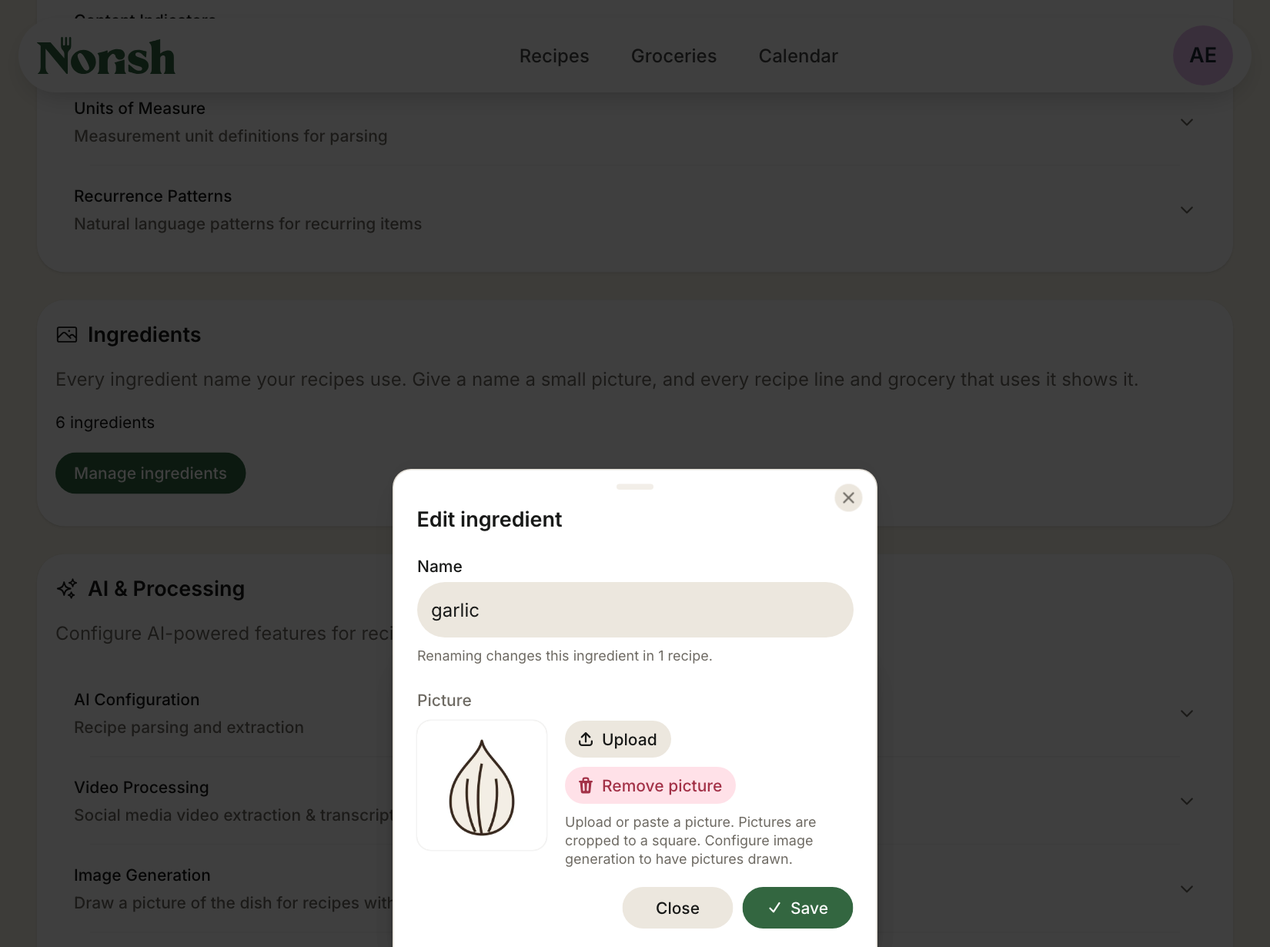
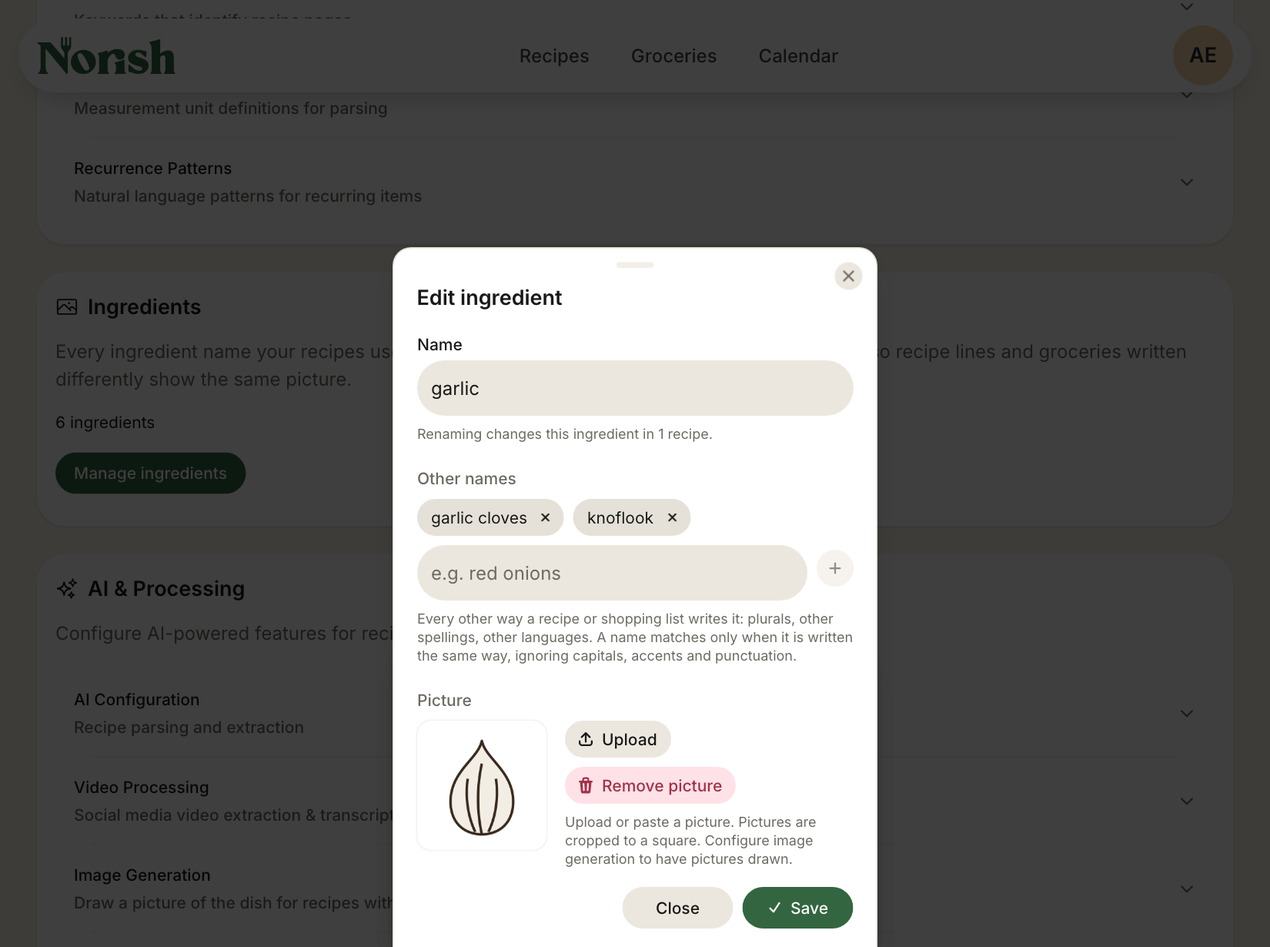
docs(recipes): ADR-0034, Alternative Names in the guide and the release note
ADR-0034 records why one food under two names is closed at write time rather
than read time, and what that costs: read-time matching, silent merging, fuzzy
matching, rewriting existing rows and per-locale alternatives are each rejected
with their reason. AI proposing alternatives is deferred, with ADR-0012's
governance shape written down in case it is ever taken up.

CONTEXT gains Alternative Name and Merge. The user guide covers how a name is
resolved, why a line may read a different name from the one imported, and what
merging moves. The browser E2E adds the path an administrator actually walks:
claiming a name that is already an ingredient, being refused, merging it in, and
seeing a later import land on the surviving row without drawing a second
picture.

Claude-Session: https://claude.ai/code/session_015Tcu7dLYJYkoWJsZQzqfmy

diff --git a/apps/web/__tests__/e2e/ai/ingredient-pictures.e2e.ts b/apps/web/__tests__/e2e/ai/ingredient-pictures.e2e.ts
@@ -3,11 +3,12 @@
  * provider's image route (ADR-0033).
  *
  * What a reader and an administrator actually do: a recipe is imported; an
- * administrator finds one of its ingredients and has its picture drawn; the
- * picture then shows beside that recipe's line, beside a grocery typed by
- * hand, and in the editor's suggestions — while a line whose name matches
- * nothing stays plain text, and an ingredient a recipe uses cannot be deleted.
- * Only the AI provider's HTTP boundary is faked.
+ * administrator finds one of its ingredients, has its picture drawn and gives
+ * it another name; the picture then shows beside the lines written either
+ * way, beside a grocery typed by hand, and in the editor's suggestions — while
+ * a line whose name matches nothing stays plain text, and an ingredient a
+ * recipe uses cannot be deleted. Only the AI provider's HTTP boundary is
+ * faked.
  */
 import { readFileSync } from "node:fs";
 import path from "node:path";
@@ -28,7 +29,7 @@ const DRAWN_PICTURE_BASE64 = readFileSync(path.join(FIXTURES_DIR, "generated-dis
 );
 
 const RECIPE = "Chive Omelette";
-const SECOND_RECIPE = "Egg Omelette";
+const SECOND_RECIPE = "Hen Egg Omelette";
 
 function omeletteRecipe() {
   return {
@@ -101,7 +102,7 @@ function adminRow(name: string) {
   return page.locator(`[data-testid="ingredients-row"][data-ingredient-name="${name}"]`);
 }
 
-test("an administrator's picture reaches the lines that point at the name", async () => {
+test("an administrator's picture reaches every line whose name matches it", async () => {
   await resetIngredientPicturesScenario();
   await configureImageGeneration(stack.ai.url);
   await importOmelette();
@@ -133,6 +134,18 @@ test("an administrator's picture reaches the lines that point at the name", asyn
   // The panel watches for the drawing and shows it without a reload.
   await expect(page.getByTestId("ingredients-picture-busy")).toHaveCount(0, { timeout: 30_000 });
 
+  // "hen egg" is another name for it — but the recipe already minted it as an
+  // ingredient of its own, so claiming the name is refused rather than
+  // stranding it. Merging is offered, and asked for.
+  await page.getByTestId("ingredients-alt-name-input").fill("hen egg");
+  await page.getByTestId("ingredients-add-alt-name").click();
+  await expect(page.getByTestId("ingredients-name-is-ingredient")).toBeVisible();
+  await page.getByTestId("merge-ingredient").click();
+
+  await expect.poll(async () => (await readIngredient("eggs"))?.altNames).toEqual(["hen egg"]);
+  expect(await readIngredient("hen egg")).toBeNull();
+
+  // The merge saved itself; the draft is done with.
   await page.getByTestId("ingredients-cancel").click();
   await expect(adminRow("eggs").getByTestId("ingredient-illustration")).toBeVisible();
   await expect(adminRow("eggs")).toContainText("Used in 1 recipe");
@@ -150,19 +163,19 @@ test("an administrator's picture reaches the lines that point at the name", asyn
   await page.getByRole("button", { name: "Close", exact: true }).click();
   expect(await readIngredient("eggs")).not.toBeNull();
 
-  // The recipe page: the line carries the picture because it points at that
-  // ingredient. "hen egg" is an ingredient of its own, and has none.
+  // The recipe page: the merged line now reads "eggs" and carries its picture,
+  // because it points at that ingredient. Chives has none of its own.
   await openOmelette();
+  await expect(ingredientRow("hen egg")).toHaveCount(0);
   await expect(
     ingredientRow("eggs").first().getByTestId("ingredient-illustration")
   ).toHaveAttribute("src", stored!.imageUrl!);
-  await expect(ingredientRow("hen egg").getByTestId("ingredient-illustration")).toHaveCount(0);
   await expect(ingredientRow("chives").getByTestId("ingredient-illustration")).toHaveCount(0);
 });
 
-test("a second recipe using the name lands on the same ingredient", async () => {
-  // One row, one picture: the second recipe shows the drawing already made,
-  // and nothing is drawn or billed again.
+test("a name an ingredient already answers to mints nothing new", async () => {
+  // "hen egg" is an Alternative Name of eggs now, so a recipe written with it
+  // lands on that ingredient — one row, one picture, nothing drawn twice.
   const before = await readIngredient("eggs");
 
   stack.ai.control.reset();
@@ -171,7 +184,7 @@ test("a second recipe using the name lands on the same ingredient", async () => 
     content: JSON.stringify({
       ...omeletteRecipe(),
       name: SECOND_RECIPE,
-      recipeIngredient: { metric: ["2 eggs"], us: ["2 eggs"] },
+      recipeIngredient: { metric: ["2 hen egg"], us: ["2 hen egg"] },
     }),
   });
   stack.ai.control.setDefault(null);
@@ -182,8 +195,8 @@ test("a second recipe using the name lands on the same ingredient", async () => 
   await expect
     .poll(async () => (await readIngredient("eggs"))?.recipeCount, { timeout: 60_000 })
     .toBe(2);
+  expect(await readIngredient("hen egg")).toBeNull();
   expect((await readIngredient("eggs"))?.imageUrl).toBe(before!.imageUrl);
-  expect(stack.ai.control.imageRequestCount).toBe(0);
 });
 
 test("a grocery typed by hand gets the picture its name matches", async () => {

diff --git a/.scratch/ingredient-pictures/docs-screenshots.e2e.ts b/.scratch/ingredient-pictures/docs-screenshots.e2e.ts
@@ -119,13 +119,13 @@ async function snap(name: string, fullPage = false): Promise<void> {
   if (DOCS) await page.screenshot({ path: path.join(DOCS, name), fullPage });
 }
 
-/** The recipe's own ingredient names, each given a picture. */
-const ENTRIES: Array<{ name: string; picture: string }> = [
-  { name: "eggs", picture: "Egg" },
-  { name: "tomatoes", picture: "Tomato" },
-  { name: "onion", picture: "Onion" },
-  { name: "garlic", picture: "Garlic" },
-  { name: "red pepper", picture: "Red pepper" },
+/** The recipe's own ingredient names, each given a picture and, for some, another name. */
+const ENTRIES: Array<{ name: string; picture: string; altNames: string[] }> = [
+  { name: "eggs", picture: "Egg", altNames: ["egg"] },
+  { name: "tomatoes", picture: "Tomato", altNames: ["tomato"] },
+  { name: "onion", picture: "Onion", altNames: ["onions"] },
+  { name: "garlic", picture: "Garlic", altNames: ["garlic cloves", "knoflook"] },
+  { name: "red pepper", picture: "Red pepper", altNames: ["red peppers"] },
 ];
 
 test("captures the ingredients panel and the editor", async () => {
@@ -147,6 +147,11 @@ test("captures the ingredients panel and the editor", async () => {
     await expect(
       page.getByRole("dialog").last().getByTestId("ingredient-illustration")
     ).toBeVisible();
+    for (const alt of entry.altNames) {
+      await page.getByTestId("ingredients-alt-name-input").fill(alt);
+      await page.getByTestId("ingredients-add-alt-name").click();
+    }
+
     if (entry.name === "garlic") await snap("ingredients-admin-editor.png");
 
     await page.getByTestId("ingredients-save").click();

diff --git a/docs/adr/index.html b/docs/adr/index.html
@@ -856,6 +856,24 @@
             its own.
           </p>
         </li>
+        <li>
+          <a href="recipes/0034-an-alternative-name-resolves-to-the-ingredient-that-carries-it.md"
+            >ADR-0034 &mdash; An Alternative Name resolves to the Ingredient Name that carries
+            it</a
+          >
+          <p>
+            <b>Accepted.</b> One food under two names is closed where a name becomes an ingredient,
+            not where one is read: an Ingredient Name carries Alternative Names, and a name written
+            from now on resolves to the row that answers to it &mdash; its own name, its folded form
+            under the grocery folding, or one of that row's alternatives. A line then shows that
+            ingredient's name, so a recipe imported as "aubergine" reads "Eggplant". Alternatives
+            apply to names written afterwards; an existing duplicate is settled by an explicit
+            merge, which the administrator is offered rather than having it happen silently.
+            Rejects read-time matching, silent merging, fuzzy matching, rewriting existing rows and
+            per-locale alternatives; defers AI proposing alternatives, with ADR-0012's governance
+            shape if it is ever taken up.
+          </p>
+        </li>
       </ul>
 
       <h2>Validation policy</h2>

diff --git a/apps/web/__tests__/e2e/ai/ingredient-pictures-support.ts b/apps/web/__tests__/e2e/ai/ingredient-pictures-support.ts
@@ -27,20 +27,23 @@ export async function resetIngredientPicturesScenario(): Promise<void> {
   });
 }
 
-/** The stored Ingredient Name: its picture and what uses it. */
+/** The stored Ingredient Name: its picture, its Alternative Names and what uses it. */
 export async function readIngredient(
   name: string
-): Promise<{ imageUrl: string | null; recipeCount: number } | null> {
+): Promise<{ imageUrl: string | null; altNames: string[]; recipeCount: number } | null> {
   return await withDatabase(async (database) => {
     const result = await database.query(
-      `select i.image_url,
+      `select i.image_url, i.alt_names,
               (select count(distinct ri.recipe_id)::int from recipe_ingredients ri
                 where ri.ingredient_id = i.id) as recipe_count
          from ingredients i where i.name = $1`,
       [name]
     );
-    const row = result.rows[0] as { image_url: string | null; recipe_count: number } | undefined;
+    const row = result.rows[0] as
+      { image_url: string | null; alt_names: string[]; recipe_count: number } | undefined;
 
-    return row ? { imageUrl: row.image_url, recipeCount: row.recipe_count } : null;
+    return row
+      ? { imageUrl: row.image_url, altNames: row.alt_names, recipeCount: row.recipe_count }
+      : null;
   });
 }

diff --git a/apps/docs/docs/recipes/ingredient-pictures.md b/apps/docs/docs/recipes/ingredient-pictures.md
@@ -26,26 +26,38 @@ Pictures appear:
 ## How a line gets its picture
 
 Every ingredient your recipes use is kept on the server once, and your
-administrator can give it a picture.
+administrator can give it a picture and any number of **other names**.
 
 A line shows the picture of the ingredient it points at — that and nothing else.
-Which ingredient that is was decided when the recipe was saved or imported: the
-name you wrote is matched to an existing ingredient, ignoring capitals, and a
-name nothing matches becomes an ingredient of its own. The amount and unit are
-never part of the name, so `3 eggs` and `200 g eggs` are both eggs.
+The interesting part is how a name becomes an ingredient, which happens as the
+recipe is saved or imported: the name you wrote is looked up by itself, then by
+its other names. Matching ignores capitals, accents, punctuation and extra
+spaces, and nothing else: `Eggs!` is `eggs`, but `free-range eggs` is its own
+ingredient until someone adds it as another name. The amount and unit are never
+part of the name, so `3 eggs` and `200 g eggs` are both eggs.
+
+This is what keeps one food from becoming two. If `aubergine` is listed as
+another name for `Eggplant`, a recipe you import saying aubergine points at
+Eggplant, shows the Eggplant picture, and counts towards Eggplant — instead of
+starting a second ingredient that needs its own picture drawn.
 
 Because the line points at the ingredient, it also shows **that ingredient's
-name**. A recipe saying "olive oil" reads "Olive Oil" if that is how your server
-first recorded it.
+name**. A recipe imported as "aubergine" reads "Eggplant". This is the same
+thing that already happens with capitals, where a recipe saying "olive oil"
+reads "Olive Oil" if that is how your server first recorded it.
 
 Grocery items are different: you type them as free text, so they have no
-ingredient of their own. A grocery row finds its picture by its name, ignoring
-capitals, accents, punctuation and extra spaces — `Eggs!` finds `eggs`, while
-`free-range eggs` is a different thing and gets no picture.
+ingredient of their own. A grocery row finds its picture by its name, under the
+same matching — capitals, accents, punctuation and extra spaces ignored, and
+other names counted too.
 
 A few things follow:
 
-- Removing a picture takes it away everywhere at once.
+- Other names apply to recipes saved or imported **from then on**. Recipes that
+  already point at the older ingredient stay where they are; an administrator
+  can merge the two, which moves them across.
+- Removing a picture takes it away everywhere at once. Removing another name
+  stops future recipes resolving through it, and changes nothing already saved.
 - Imported recipes, including [Recipe Archives](./recipe-archive.md), resolve
   their names against the ingredients your server already has.
 
@@ -59,7 +71,9 @@ the name part of the line, after the amount and unit.
 ![The editor suggesting an ingredient while typing a line](/img/screenshots/ingredient-pictures-editor.png)
 
 - Click a suggestion, or use the arrow keys and press **Enter** or **Tab**, to
-  replace just the name. The amount and unit you typed stay as they are.
+  replace just the name. The amount and unit you typed stay as they are. If you
+  matched an ingredient by one of its other names, the suggestion says so and
+  inserts the ingredient's own name, which is what the line would mean anyway.
 - Press **Enter** without choosing a suggestion to move to the next line, as
   always.
 - Suggestions are optional. Any other name is saved exactly as you typed it, and
@@ -75,20 +89,29 @@ Item, this changes only your own view on that device.
 
 Administrators manage ingredients under Settings => Admin => **Ingredients**.
 Choose **Manage ingredients** to see every ingredient name your recipes use,
-with how many recipes use each. Search by name to find one.
+with how many recipes use each. Search by name or other name to find one.
 
 ![The Ingredients panel](/img/screenshots/ingredients-admin-panel.png)
 
 Edit an ingredient to change:
 
 - **Name**, which is the text recipes show. Renaming changes it in every recipe
-  that uses it, and the editor tells you how many that is first. A name can only
-  belong to one ingredient, so a rename onto a name another ingredient already
-  has is refused, naming that ingredient.
+  that uses it, and the editor tells you how many that is first.
+- **Other names**, every other way a recipe or shopping list writes it: plurals
+  (`egg`), other spellings (`yoghurt`, `yogurt`), other languages (`aubergine`),
+  or a common longer form (`large eggs`). Recipes saved from then on resolve
+  through them, so the food stays one ingredient with one picture.
+
+  A name can only belong to one ingredient. If the name you add is already an
+  ingredient in its own right, Norish says so, tells you how many recipes use
+  it, and offers to **merge** it in — which moves those recipes and any pantry
+  entries across, keeps its names as other names, and removes its row and
+  picture. Merging is never automatic: it is destructive, so it is always your
+  choice.
 - **Picture**, uploaded, pasted from the clipboard, or drawn by the image model.
   Pictures are cropped to a square.
 
-![Editing an ingredient: its name and picture](/img/screenshots/ingredients-admin-editor.png)
+![Editing an ingredient: its name, other names and picture](/img/screenshots/ingredients-admin-editor.png)
 
 **Add ingredient** creates a name no recipe uses yet, so it can have a picture
 ready ahead of time. An ingredient can only be deleted when no recipe uses it and
@@ -102,9 +125,9 @@ A drawing takes a moment and appears in the panel when it is ready. Generating
 again replaces the picture.
 
 **Generate missing pictures** draws every ingredient without a picture that a
-recipe uses. It tells you how many pictures that is before it starts, because
-each one is a separate request to your image provider. Ingredients already being
-drawn are not drawn twice.
+recipe uses or that has other names. It tells you how many pictures that is
+before it starts, because each one is a separate request to your image provider.
+Ingredients already being drawn are not drawn twice.
 
 Every picture is drawn from the **Ingredient Illustration Prompt**, which sets
 the style they share. You can edit it under Settings => Admin => AI &

diff --git a/docs/adr/recipes/0034-an-alternative-name-resolves-to-the-ingredient-that-carries-it.md b/docs/adr/recipes/0034-an-alternative-name-resolves-to-the-ingredient-that-carries-it.md
@@ -1,0 +1,28 @@
+# An Alternative Name resolves to the Ingredient Name that carries it
+
+One deployment accumulates the same food under several names — "aubergine" and "eggplant", "coriander" and "cilantro" — each minted as its own `ingredients` row by whichever recipe was imported first. Each then counts separately in the administrator's list, is drawn separately, and is billed separately (ADR-0033). The names differ; the food does not.
+
+This is a matching problem, and it is settled where a name becomes an ingredient rather than where one is read. **An Ingredient Name carries Alternative Names, and a name written from now on resolves to the row that answers to it — by its own name, by its folded form under `normalizeGroceryName`, or by one of that row's Alternative Names.** A recipe that says "aubergine" points at the Eggplant row because it *is* Eggplant.
+
+Resolution ranks: a row's own name beats a fold, and a fold beats another row's Alternative Name. Where two rows still answer alike the lower `lower(name)` wins, so the same name never lands on a different ingredient from one import to the next.
+
+## Considered Options
+
+- **Matching at read time**, so a line shows the picture of a name carrying its folded form as an Alternative Name. Rejected in ADR-0033, and rejected again here for a stronger reason: it leaves both rows in place, so the duplicate the feature exists to close stays open, with two recipe counts and two chances to be drawn. The alternative papers over the split instead of closing it.
+- **Merging silently** when an administrator adds an Alternative Name that is already an ingredient. It destroys a row, its picture and its identity as a side effect of typing in a text field. Rejected in favour of refusing and offering the merge as its own action.
+- **Fuzzy or word-subset matching**, so "extra virgin olive oil" finds "olive oil". It merges ingredients that are not the same whenever the longer name is a different thing ("coconut milk" is not milk), and here a wrong match no longer shows a wrong picture — it puts a recipe's line on the wrong ingredient and changes what that line says. Rejected the more firmly for it, as ADR-0032 rejects it for the Pantry; the remedy for a missed match is an Alternative Name.
+- **Rewriting the rows that already exist** when an Alternative Name is added. That is a merge, and a merge is destructive; it is the administrator's to ask for.
+- **AI proposing Alternative Names**, per import or per enrichment. Deferred. Every enrichment kind today writes only to the recipe it ran on, while an Alternative Name writes to a vocabulary the whole instance shares and decides what another household's recipe says. Deduplication is also a question about the whole list rather than about one recipe, so it belongs in a batch an administrator asks for, not in a per-import call that is billed every time. ADR-0012 has the governance shape if this is ever taken up: a curated vocabulary that AI may extend only under an explicitly permissive setting.
+- **Per-locale alternatives** beyond what an administrator types. Rejected; the vocabulary is per deployment, and a household cooking in two languages types both names once.
+
+## Consequences
+
+- A recipe line shows the Ingredient Name it resolved to, not the words the import used: a recipe that said "aubergine" reads "Eggplant" once an administrator has made that an Alternative Name. This is the same collapse that already happens for case — a recipe saying "olive oil" reads "Olive Oil" when that row was minted first — widened to names an administrator has declared equal. Keeping the original wording would mean giving `recipe_ingredients` text of its own, which is the duplication the `ingredients` table exists to remove.
+- Alternative Names take effect on names written **afterwards**. Rows that already exist are not moved, because moving them is a merge; the administrator is shown the clash and asks for it.
+- Adding an Alternative Name that is already an Ingredient Name in its own right is refused, naming that ingredient and how many recipes use it, and offering to merge it in. Adding a *name* that is already another ingredient's Alternative Name is refused outright: both directions would otherwise mint the duplicate the feature exists to prevent.
+- Merging repoints the merged ingredient's recipe lines and Pantry Ingredients, keeps its name and its alternatives as Alternative Names of the survivor so nothing that resolved to it stops resolving, deletes its row and sweeps its picture. A member holding both in their Pantry keeps one.
+- Because a name may resolve to a row called something else, every caller of the bulk resolve looks its result up by the fold of the name it asked for, never by the row's name.
+- The editor suggests from the cached list and inserts the **ingredient's own name**, saying which Alternative Name matched. Typing an alternative would resolve there anyway, so the line may as well say what it will mean.
+- The grocery row's lookup indexes alternatives too, so a hand-typed "aubergine" shows the Eggplant picture without a row of its own.
+- A name written before its fold was stored is reached only by its exact name until the startup backfill folds it (ADR-0033).
+- Matching anything looser than the grocery folding reopens this ADR.

diff --git a/CONTEXT.md b/CONTEXT.md
@@ -55,11 +55,19 @@ _Avoid_: Ingredient Link (suggests a hyperlink in the text rather than a usage r
 The Recipe Enrichment kind that infers Step Ingredients. It is a gap-filler in every case — automatic or manual, it only ever adds links to steps that have none, so it can never replace or remove what a person attached and needs no supplied-data suppression: a step that already has Step Ingredients is simply not its business. Heading rows are never linked. A step that genuinely uses nothing stays bare and may be examined again by later runs.
 
 **Ingredient Name**:
-The ingredient a recipe line points at, and the text that line shows. Names are de-duplicated as they are written, regardless of case: "eggs" and "Eggs" are one ingredient, "large eggs" another. An administrator can give it an Ingredient Illustration; a name a recipe uses or a Pantry holds cannot be deleted, and renaming it changes the text of every line that uses it.
+The ingredient a recipe line points at, and the text that line shows. Names are de-duplicated as they are written: regardless of case — "eggs" and "Eggs" are one, "large eggs" another — and through Alternative Names, so a line typed "aubergine" points at Eggplant and reads "Eggplant". An administrator can give it an Ingredient Illustration and Alternative Names; a name recipes use cannot be deleted, and renaming it changes the text of every line that uses it.
 _Avoid_: Ingredient Line (that is the recipe's row with its amount), Catalog Ingredient (the separate catalog this replaced)
 
+**Alternative Name**:
+Another way of writing an Ingredient Name that *is* that ingredient — "aubergine" on "Eggplant". A name written from now on resolves through it, so the recipe points at one row and one picture rather than minting a second of each; matching is exact under the grocery folding and nothing looser, so "free-range eggs" is its own ingredient until an administrator says otherwise (ADR-0034). It never appears on a recipe: a line shows the ingredient's own name. It applies to names written afterwards — an Alternative Name that is already an ingredient is refused, and settled by a Merge instead.
+_Avoid_: Alias, Synonym (both suggest a looser match than exact folding)
+
+**Merge**:
+Folding one Ingredient Name into another: its recipe lines and Pantry Ingredients move across, its name and its alternatives stay as Alternative Names of the survivor, and its row and picture go. It is how an administrator settles a duplicate that already exists, and it is always asked for — never a side effect of adding an Alternative Name, because it destroys a row that recipes point at.
+_Avoid_: Link, Alias (a Merge leaves one ingredient, not two related ones)
+
 **Ingredient Illustration**:
-The small picture belonging to an Ingredient Name, shown beside every line that points at it — and, for a grocery row, beside text that folds to its name — on a recipe's ingredient list, in cooking mode, on a step's ingredient chips, in the editor and on the grocery list — so an ingredient can be recognised at a glance. It is uploaded or drawn by AI from the name, square and in the one style its Prompt sets; unlike a Generated Image, nothing records which, because nothing acts on the difference. It is decoration beside the name, never a replacement for it.
+The small picture belonging to an Ingredient Name, shown beside every line that points at it — on a recipe's ingredient list, in cooking mode, on a step's ingredient chips, in the editor and on the grocery list — so an ingredient can be recognised at a glance. It is uploaded or drawn by AI from the name, square and in the one style its Prompt sets; unlike a Generated Image, nothing records which, because nothing acts on the difference. It is decoration beside the name, never a replacement for it.
 _Avoid_: Ingredient Icon (suggests a symbol set), Ingredient Image (a recipe's images are of the dish)
 
 **Image Generation**:

diff --git a/apps/docs/docs/release-notes/0.23.0-beta.md b/apps/docs/docs/release-notes/0.23.0-beta.md
@@ -62,17 +62,25 @@ instead of read.
   editor, beside grocery items including ones typed by hand, and beside the
   names in your pantry.
 - Administrators give ingredients pictures under Settings => Admin =>
-  Ingredients, which lists every ingredient name your recipes use, with how
-  many recipes use each. A picture can be uploaded, pasted, or drawn by your
+  Ingredients, which lists every ingredient name your recipes use. Each can
+  have other names and a picture that can be uploaded, pasted, or drawn by your
   image provider in one shared style.
-- A line shows the picture of the ingredient it points at, and nothing
-  borrowed from a name that looks similar. A grocery item you typed by hand has
-  no ingredient of its own, so it finds its picture by name — ignoring capitals,
+- **Other names** keep one food from becoming two. List `aubergine` under
+  `Eggplant` and recipes you save or import from then on point at Eggplant,
+  show its picture and count towards it, instead of starting a second
+  ingredient that needs its own picture drawn. Matching ignores capitals,
   accents and punctuation, and nothing looser.
+- A line shows the picture of the ingredient it points at — and that
+  ingredient's name, so a recipe imported as "aubergine" reads "Eggplant", the
+  same way one saying "olive oil" already reads "Olive Oil". A grocery item you
+  typed by hand has no ingredient of its own, so it finds its picture by name.
+- Already have both as separate ingredients? Adding the name tells you so and
+  offers to **merge** them, moving the recipes and pantry entries across. It is
+  always your choice; nothing is merged automatically.
 - An ingredient a recipe uses, or a household keeps in its pantry, cannot be
   deleted: Norish says what still uses it instead.
 - The recipe editor suggests ingredient names your recipes already use as you
-  type an ingredient line. Suggestions are optional, and any other text is saved
+  type an ingredient line. Suggestions are optional, and any other name is saved
   as typed.
 - Prefer text only? Hide **Ingredient pictures** under Hidden Items.
 

diff --git a/docs/adr/recipes/0033-an-ingredient-name-owns-its-picture.md b/docs/adr/recipes/0033-an-ingredient-name-owns-its-picture.md
@@ -13,7 +13,7 @@ Nothing resolves a picture from text at read time on the server. The one place t
 - **A link per recipe line**, a nullable picture id on `recipe_ingredients` set by autocomplete or exact match on save. The line already has that link: `ingredient_id` is it.
 - **Fuzzy or word-subset matching** for the grocery row, so "extra virgin olive oil" finds "olive oil". It shows the wrong picture whenever the longer name is a different thing ("coconut milk" is not milk). Rejected, as ADR-0032 rejects it for the Pantry.
 - **Per-household pictures.** Pictures are drawn once per deployment and cost money per picture; households differ in what they cook, not in what an onion looks like. Rejected.
-- **Recognising that one food is here under two names** — "aubergine" and "eggplant" as separate rows, each drawn and billed separately. That is real, and it is a matching problem rather than a picture problem: it is about which row a name resolves to, which this ADR does not touch. Deliberately left to a decision of its own, so that a change to matching is reviewed and reverted as matching, not as pictures.
+- **Recognising that one food is here under two names** — "aubergine" and "eggplant" as separate rows, each drawn and billed separately. That is real, and it is a matching problem rather than a picture problem: it is about which row a name resolves to, which this ADR does not touch. Settled separately by ADR-0034, so that a change to matching is reviewed and reverted as matching, not as pictures.
 
 ## Consequences
 

diff --git a/.scratch/ingredient-pictures/spec.md b/.scratch/ingredient-pictures/spec.md
@@ -4,7 +4,7 @@ Status: implemented
 
 > **Revised 2026-09-17:** the separate Ingredient Catalog (two tables, a stored link, SQL relinking) was folded into `ingredients`. Pictures and Alternative Names now live on the Ingredient Names themselves and are matched at read time; the admin list shows every name; a used name cannot be deleted. The issues in `issues/` were written against the catalog model and are kept as history.
 >
-> **Split 2026-09-18:** Alternative Names and Merge were taken out of this feature and moved to a follow-up. They are an ingredient *matching* concern, not a picture concern: a picture is a column on the Ingredient Name, while an Alternative Name changes which row a line points at and what text it shows. This spec is kept as written; the sections about other names describe the follow-up, not what ships here.
+> **Split 2026-09-18:** Alternative Names and Merge ship as their own change on top of the pictures one, under ADR-0034. They are an ingredient *matching* concern, not a picture concern: a picture is a column on the Ingredient Name, while an Alternative Name changes which row a line points at and what text it shows. Matching also moved from read time to write time, so the sections here describing read-time resolution are history.
 
 ## Problem Statement
 
